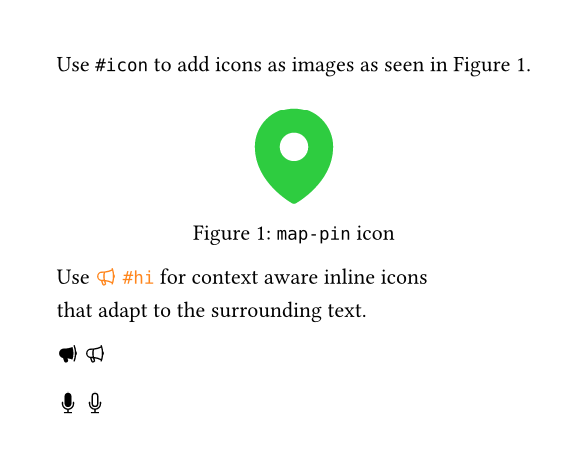
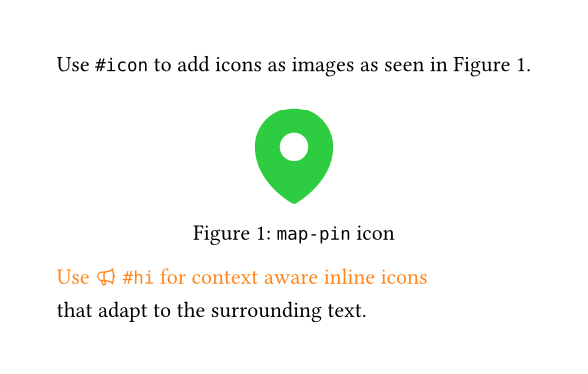
Updated assets and README

Changed region(s): [[0.0918, 0.1176, 0.8878, 0.7059], [0.0918, 0.7059, 0.7347, 0.7941], [0.0918, 0.7941, 0.6122, 0.8824]]

diff --git a/README.md b/README.md
@@ -1,6 +1,9 @@
 # heroic (v0.1.0)
 
-Use [Heroicons](https://heroicons.com/) in Typst.
+Use [Heroicons](https://heroicons.com/) (v2.2.0) in Typst.
+
+Compared to other icon packages `heroic` can be used without the need to install 
+any icon fonts and works out of the box with bundled SVG files.
 
 ## Usage
 
@@ -15,7 +18,7 @@ Use `#icon` to add icons as images as seen in @map-pin-icon.
   caption: [`map-pin` icon],
 ) <map-pin-icon>
 
-Use #text(fill: orange)[#hi("megaphone", solid: false) `#hi`] for context aware inline icons\
+#text(fill: orange)[Use #hi("megaphone", solid: false) `#hi` for context aware inline icons]\
 that adapt to the surrounding text.
 ```
 
@@ -33,3 +36,23 @@ Both commands use the same arguments:
 `#hi` also takes additional arguments:
 
 - **baseline** (`length`): Baseline of the icon.
+
+## Development
+
+### Bundling Heroicons
+
+To update the icon files to a new version, run the `bundle.py` script from the `scripts` folder:
+```sh
+python3 scripts/bundle.py <release_version>
+```
+
+## Changelog
+
+- Vesion 0.1.1 (2025-12-23)
+	- Updated Heroicons to 2.2.0.
+	- Improved `scripts/bundler.py` script to download and bundle new Heroicon versions.
+	- Added auto-generated `src/icon-index.txt` instead of fixed list of icon names.
+	- Added parameter `columns` for `#list-icons`.
+
+- Version 0.1.0 (2025-05-15)
+	- Initial release.
